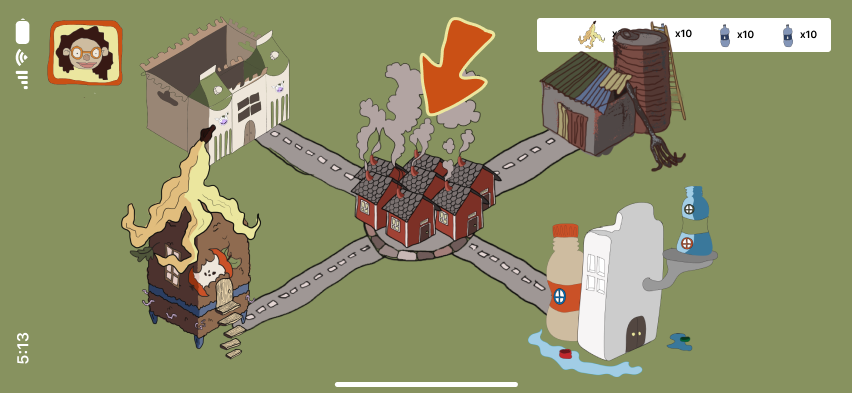
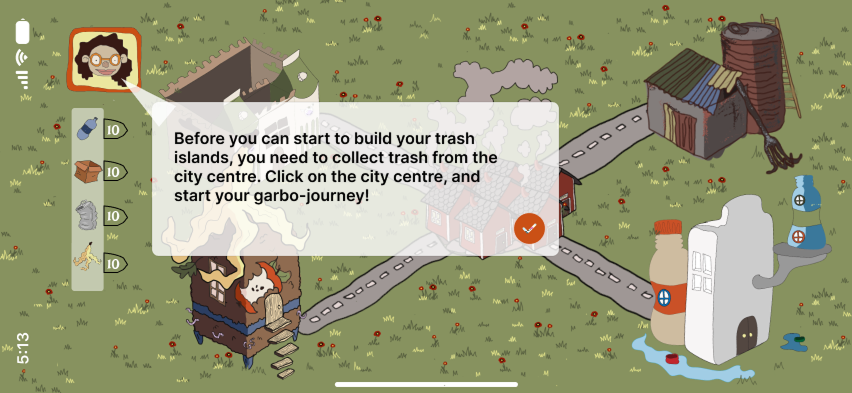
Started experimenting with coding the game more real
Tried to code the game for real. Not just changing images. Was pretty challenging and didnt turn out very good, but it was a fun expreiment

diff --git a/scripts/village-new.js b/scripts/village-new.js
@@ -1,0 +1,101 @@
+function getVillageName(name) {
+    const urlParams = new URLSearchParams(window.location.search);
+    return urlParams.get(name);
+}
+
+function getTrash() {
+    if (cooldown) {
+        cooldownMsg.style.display = "block";
+        return;
+    };
+
+    cooldown = true;
+    let metalGen = Math.ceil(Math.random() * 10);
+    let cardboardGen = Math.ceil(Math.random() * 10);
+    let plasticGen = Math.ceil(Math.random() * 10);
+    let compostGen = Math.ceil(Math.random() * 10);
+    metal.textContent = metalCount += metalGen;
+    compost.textContent = compostCount += compostGen;
+    plastic.textContent = plasticCount += plasticGen;
+    cardboard.textContent = cardboardCount += cardboardGen;
+
+    setTimeout(() => {
+        cooldown = false;
+    }, 300000);
+}
+
+const name = getVillageName("text");
+const speechBubble1 = document.querySelector("#speech-bubble1");
+const speechBubble2 = document.querySelector("#speech-bubble2");
+const speechBubble3 = document.querySelector("#speech-bubble3");
+const speechBubble4 = document.querySelector("#speech-bubble4");
+const cooldownMsg = document.querySelector("#cooldown-msg");
+const profilePic = document.querySelector("#profile-pic");
+const centre = document.querySelector("#centre");
+const map = document.querySelector("#map");
+const mapImg = document.querySelector("#map img");
+const collectTrash = document.querySelector("#collect-trash");
+
+const villNamePara = document.querySelector("span");
+const metal = document.querySelector("#metal");
+const compost = document.querySelector("#compost");
+const plastic = document.querySelector("#plastic");
+const cardboard = document.querySelector("#cardboard");
+
+
+let metalCount = 10;
+let compostCount = 10;
+let plasticCount = 10;
+let cardboardCount = 10;
+let cooldown = false;
+
+villNamePara.innerHTML = decodeURIComponent(name);
+metal.textContent = metalCount;
+compost.textContent = compostCount;
+plastic.textContent = plasticCount;
+cardboard.textContent = cardboardCount;
+
+profilePic.addEventListener("click", () => {
+    speechBubble1.style.display = "block";
+});
+
+speechBubble1.addEventListener("click", () => {
+    speechBubble1.style.display = "none";
+});
+
+speechBubble2.addEventListener("click", () => {
+    speechBubble2.style.display = "none";
+    speechBubble3.style.display = "block";
+});
+
+speechBubble3.addEventListener("click", () => {
+    speechBubble3.style.display = "none";
+});
+
+speechBubble4.addEventListener("click", () => {
+    speechBubble4.style.display = "none";
+    centre.style.display = "block";
+    collectTrash.style.display = "none";
+    mapImg.src = `images/village-map.png`;
+});
+
+cooldownMsg.addEventListener("click", () => {
+    cooldownMsg.style.display = "none";
+});
+
+centre.addEventListener("click", () => {
+    if (cooldown) {
+        cooldownMsg.style.display = "block";
+        return;
+    };
+    mapImg.src = `images/trash-city.png`;
+    centre.style.display = "none";
+    collectTrash.style.display = "block";
+    speechBubble2.style.display = "block";
+});
+
+collectTrash.addEventListener("click", () => {
+    getTrash();
+    speechBubble3.style.display = "none";
+    speechBubble4.style.display = "block";
+});

diff --git a/village-new.html b/village-new.html
@@ -1,0 +1,56 @@
+<!DOCTYPE html>
+<html lang="en">
+<head>
+    <meta charset="UTF-8">
+    <meta name="viewport" content="width=device-width, initial-scale=1.0">
+    <title>Village Center | WasteVillage</title>
+    <link rel="stylesheet" href="styles/root.css">
+    <link rel="stylesheet" href="styles/village-new.css">
+    <link rel="icon" href="images/garbonomix-icon.png">
+</head>
+<body>
+    <main>
+        <div class="speech-bubble" id="speech-bubble1">
+            <p>Welcome to <span></span> Village! Before you can start to build your trash islands, you need to collect trash from the city centre. Click on the city centre, and start your
+                garbo-journey!</p>
+        </div>
+        <div class="speech-bubble" id="speech-bubble2">
+            <p>Oh no!!? So much garbage! They’re practically drowning, let’s help them.
+            </p>
+        </div>
+        <div class="speech-bubble" id="speech-bubble3">
+            <p>First. Press the exclamation marks to
+                organize the garbage. You’ve got this
+                Garbo-champ!
+                </p>
+        </div>
+        <div class="speech-bubble" id="speech-bubble4">
+            <p>Way to go Garbochamp! You collected the garbage!</p>
+        </div>
+        <div class="speech-bubble" id="cooldown-msg">
+            <p>Slow down Garbochamp! You can't collect any more trash at the moment.</p>
+        </div>
+        <div id="back-button"><-</div>
+        <div id="centre"></div>
+        <div id="collect-trash"></div>
+        <aside>
+            <img id="profile-pic" src="images/leila-without-text.png">
+            <div id="resources">
+                <img src="images/bottle.png">
+                <p id="plastic"></p>
+                <img src="images/box.png">
+                <p id="metal"></p>
+                <img src="images/can.png">
+                <p id="compost"></p>
+                <img src="images/banana.png">
+                <p id="cardboard"></p>
+            </div>
+        </aside>
+        <div id="map">
+            <img src="images/village-map.png">
+        </div>
+    </main>
+    <script src="scripts/script.js"></script>
+    <script src="scripts/village-new.js"></script>
+</body>
+</html>

diff --git a/styles/village-new.css b/styles/village-new.css
@@ -1,0 +1,95 @@
+aside {
+    display: grid;
+    grid-template-rows: 100px 1fr;
+    align-items: center;
+}
+
+aside img {
+    width: 100px;
+    justify-self: center;
+}
+
+#back-button {
+    height: 50px;
+    width: 50px;
+    border-radius: 50%;
+    background-color: var(--button);
+    position: absolute;
+    display: flex;
+    justify-content: center;
+    align-items: center;
+    color: white;
+    top: 90%;
+}
+
+body {
+    background-color: var(--village);
+}
+
+#centre {
+    position: absolute;
+    height: 200px;
+    width: 200px;
+    left: 50%;
+    top: 40%;
+}
+
+#collect-trash {
+    height: 200px;
+    width: 200px;
+    position: absolute;
+    left: 45%;
+    top: 45%;
+    display: none;
+}
+
+main {
+    display: grid;
+    grid-template-columns: 1fr 5fr;
+}
+
+#map {
+    display: grid;
+    grid-template-columns: 1fr;
+}
+
+#map img {
+    height: 100%;
+    width: 100%;
+    object-fit: cover;
+}
+
+#resources {
+    background-color: rgba(255, 255, 255, 0.5);
+    height: 400px;
+    width: 50px;
+    border-radius: 10px;
+    justify-self: center;
+    display: grid;
+    grid-template-rows: 50px 1fr 50px 1fr 50px 1fr 50px 1fr;
+    align-items: center;
+    text-align: center;
+}
+
+#resources img {
+    max-height: 100%;
+    max-width: 100%;
+    object-fit: contain;
+    justify-self: center;
+}
+
+#recources p {
+    border-bottom: 1px solid black;
+}
+
+.speech-bubble {
+    position: absolute;
+    width: 500px;
+    height: 125px;
+    background-color: rgba(255, 255, 255, 0.8);
+    border-radius: 10px;
+    padding: 10px;
+    left: 150px;
+    top: 100px;
+    display: none;
+}

diff --git a/scripts/village.js b/scripts/village.js
@@ -7,7 +7,7 @@ const name = getVillageName("text");
 const villageGreeting = document.querySelector("h2");
 const game = document.querySelector("#game");
 const gameImg = document.querySelector("#game img");
-const nImages = 5;
+const nImages = 15;
 let imgNum = 1;
 
 
@@ -18,10 +18,14 @@ gameImg.addEventListener("click", (e) => {
     e.target.src = `images/village-home-${imgNum}.png`;
 });
 
-document.body.addEventListener("keypress", (e) => {
-    if (imgNum >= nImages) {return};
-    if (e.key === "Enter") {
+document.body.addEventListener("keydown", (e) => {
+    if ((imgNum === nImages && e.key.toLowerCase() === "d") || (imgNum === 1 && e.key.toLowerCase() === "a")) {return};
+    console.log(e.key);
+    if (e.key.toLowerCase() === "d") {
         imgNum++;
+        gameImg.src = `images/village-home-${imgNum}.png`;
+    } else if (e.key.toLowerCase() === "a") {
+        imgNum--;
         gameImg.src = `images/village-home-${imgNum}.png`;
     }
 });

diff --git a/scripts/script.js b/scripts/script.js
@@ -36,9 +36,9 @@ nattie.addEventListener("click", () => {
 });
 
 confirm.addEventListener("click", () => {
-    villageName = villageInput.value;
-    if (!villageName) {
-        villageName = "Blank";
+    villNamePara = villageInput.value;
+    if (!villNamePara) {
+        villNamePara = "Blank";
     }
-    window.location.href = `village.html?text=${encodeURIComponent(villageName)}`;
+    window.location.href = `village.html?text=${encodeURIComponent(villNamePara)}`;
 });

diff --git a/village.html b/village.html
@@ -11,9 +11,9 @@
 <body>
     <h2>Welcome to your village, </h2>
     <div id="game">
-        <img src="images/village-home.png">
+        <img src="images/village-home-1.png">
     </div>
-    <script src="script.js"></script>
-    <script src="village.js"></script>
+    <script src="scripts/script.js"></script>
+    <script src="scripts/village.js"></script>
 </body>
 </html>

diff --git a/avatar.html b/avatar.html
@@ -37,6 +37,6 @@
             </div>
         </div>
     </main>
-    <script src="script.js"></script>
+    <script src="scripts/script.js"></script>
 </body>
 </html>
